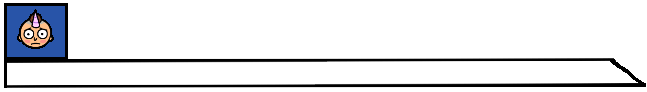
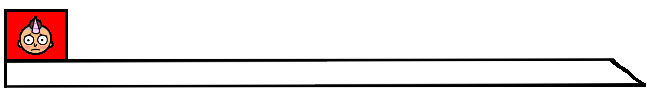
Replaced castle sprite, fixed redunant castle class ..

Changed region(s): [[0.0, 0.0217, 0.1236, 0.6522]]

diff --git a/src/scenes/bootScene.ts b/src/scenes/bootScene.ts
@@ -44,7 +44,6 @@ export class BootScene extends Phaser.Scene {
         this.load.image('fantasy-bg', 'assets/images/fantasy_background.jpg');
         this.load.image('normal-bg', 'assets/images/normal_bg.jpg');
 
-
         // Player one
         this.load.image('morty', 'assets/animations/morty/morty.png');
         this.load.image('morty_left', 'assets/animations/morty/morty_left.png');
@@ -60,25 +59,20 @@ export class BootScene extends Phaser.Scene {
         this.load.image('bar_two', 'assets/images/rick_bar.png')
 
         // Castles
-        this.load.image('castleOne', 'assets/images/castle-playerOne.png');
-        this.load.image('castleTwo', 'assets/images/castle-playerTwo.png');
+        this.load.image('castle', 'assets/images/castle.png');
 
-        //Flags
-        this.load.image('flag_one', 'assets/images/flag_one.png')
-        this.load.image('flag_two', 'assets/images/flag_two.png')
+        // Flags
+        this.load.image('flag_one', 'assets/images/flag_one.png');
+        this.load.image('flag_two', 'assets/images/flag_two.png');
+
+        // Weapons
+        this.load.image('mace', 'assets/images/weapon1.png');
+        this.load.image('axe', 'assets/images/weapon2.png');
 
         // Sounds
         this.load.audio('normal_sound', 'assets/sounds/sneaky_snitch.mp3');
         this.load.audio('hit_sound', 'assets/sounds/oef.mp3');
         this.load.audio('jump_sound', 'assets/sounds/jump.mp3');
-        
-       
-        this.load.image('grass', 'assets/images/grass.png');
-        // this.load.image('castle', 'assets/images/castle.png');
-        
-        // Weapons
-        this.load.image('mace', 'assets/images/weapon1.png');
-        this.load.image('axe', 'assets/images/weapon2.png');
     }
 };
 

diff --git a/src/scenes/normalScene.ts b/src/scenes/normalScene.ts
@@ -57,8 +57,8 @@ export class NormalScene extends Phaser.Scene {
         this.scorefieldTwo = this.add.text(1270, 40,  + this.collectedFlagsTwo+ ' Flags captured', { fontFamily: 'Sofia', fontSize: 25, color: '#9999cc' }).setOrigin(0.5).setStroke('#ffcc99', 2);
         
         // Create castles.
-        this.castleOne = new Castle(this, 131, 755, 'castleOne');
-        this.castleTwo = new CastleTwo(this, 1370, 766, 'castleTwo');
+        this.castleOne = new Castle(this, 80, 770, 'castle');
+        this.castleTwo = new Castle(this, 1360, 770, 'castle');
 
         // Create flags.
         this.flagOne = new Flag(this, 151, 619, 'flag_one');
@@ -135,6 +135,8 @@ export class NormalScene extends Phaser.Scene {
             // TODO ARGUMENT MEEGEVEN AAN ADDFOLLOWER
             //() => { platform.addFollower(this.playerTwo); }
         );
+
+        this.physics.add.collider(this.playerOne, this.playerTwo);
 
         // Listen to platform & player collisions.
         this.physics.add.collider(this.playerOne, this.ground);

diff --git a/src/objects/castle.ts b/src/objects/castle.ts
@@ -15,8 +15,7 @@ export class Castle extends Phaser.Physics.Arcade.Sprite {
         this.scene = scene;
         this.spriteName = spriteName;
 
-        this.setScale(0.33);
-        this.depth = -1;
+        this.setScale(1.5);
 
         this.x = x;
         this.y = y;
